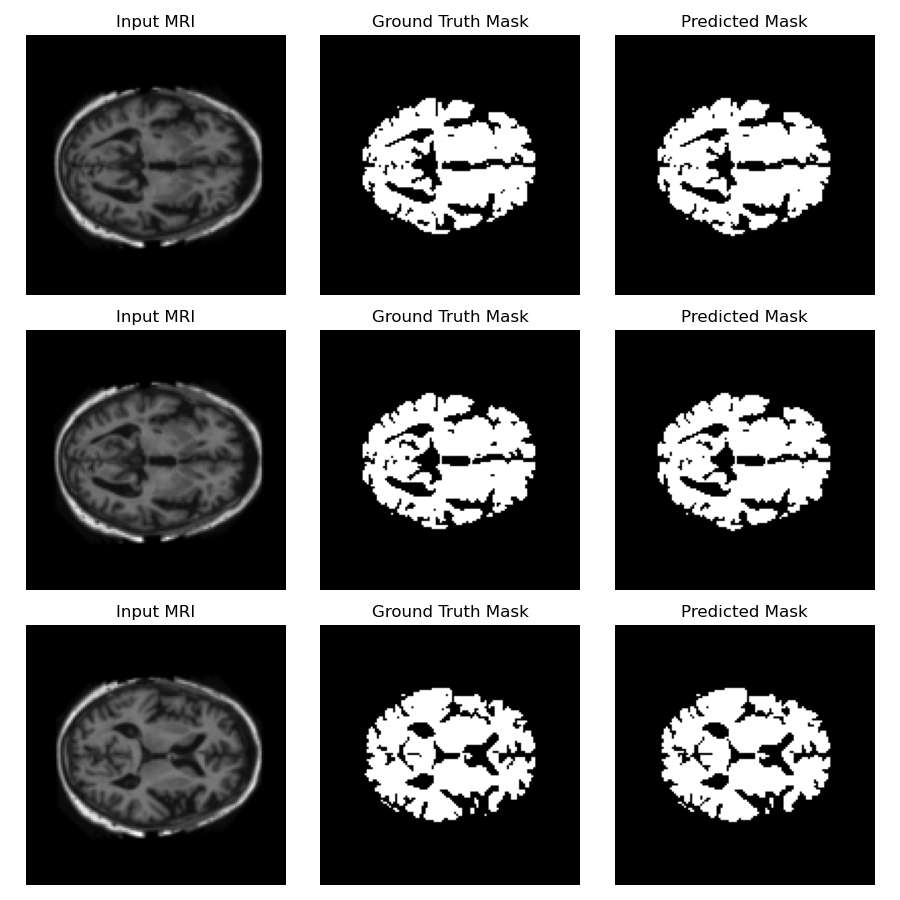
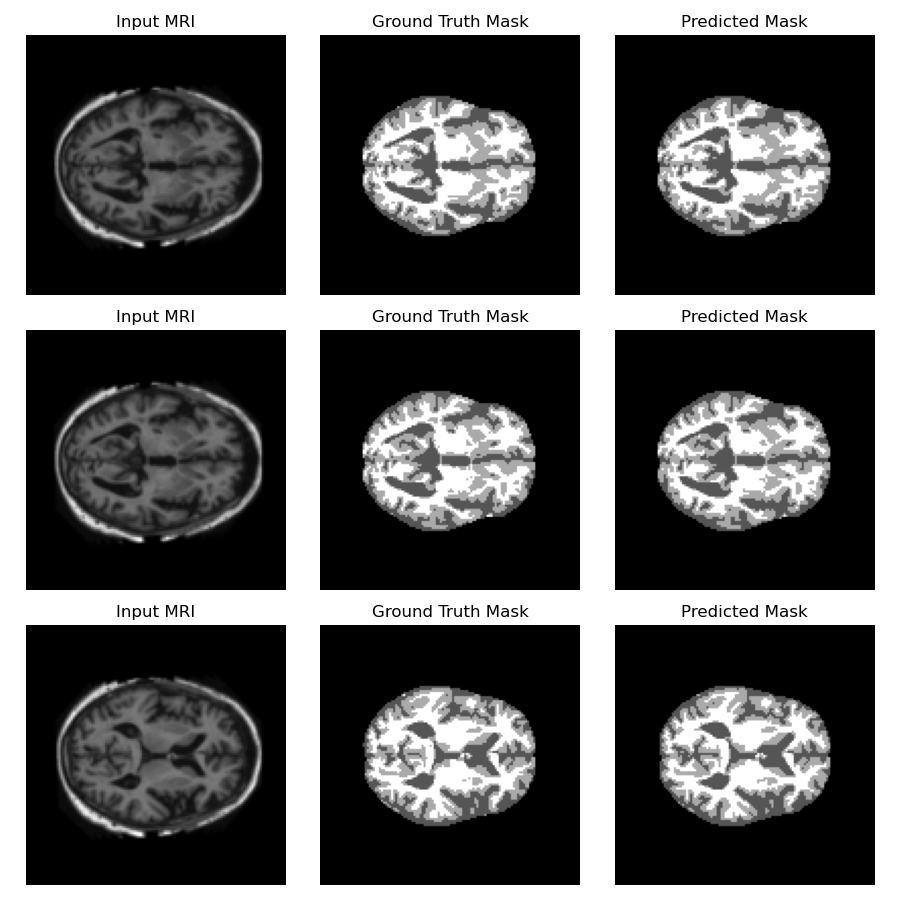
unet updated again for 4 classes and proper mapping of the images to the 4 classes

diff --git a/unet_train.py b/unet_train.py
@@ -1,6 +1,6 @@
 import os
 import numpy as np
-from glob import glob
+from glob import glob, os
 from PIL import Image
 
 import torch
@@ -11,6 +11,7 @@ from torchvision import transforms
 import torch.nn.functional as F
 
 import matplotlib.pyplot as plt
+
 
 # ------------------
 # CONFIG
@@ -53,9 +54,9 @@ def visualize_predictions(model, dataset, device=DEVICE, num_samples=3):
 # ------------------
 class OASISSegDataset(Dataset):
     """
-    Simple dataset for OASIS segmentation.
-    Assumes image and mask folders contain matching PNGs
-    with the same sorted order.
+    Dataset for OASIS segmentation.
+    Loads MRI slices and corresponding masks, resizes them,
+    and remaps mask pixel values {0,85,170,255} → {0,1,2,3}.
     """
     def __init__(self, img_dir, mask_dir, img_size=128):
         self.img_paths = sorted(glob(os.path.join(img_dir, "*.png")))
@@ -70,27 +71,37 @@ class OASISSegDataset(Dataset):
         if len(self.img_paths) != len(self.mask_paths):
             print(f"[WARN] Unequal counts: {len(self.img_paths)} imgs vs {len(self.mask_paths)} masks")
 
+        # Image transform (grayscale, resize, tensor)
         self.img_transform = transforms.Compose([
             transforms.Grayscale(num_output_channels=1),
             transforms.Resize((img_size, img_size)),
             transforms.ToTensor(),
         ])
-        self.mask_resize = transforms.Resize((img_size, img_size), interpolation=transforms.InterpolationMode.NEAREST)
+
+        # Mask transform (resize only, keep as integer labels)
+        self.mask_resize = transforms.Resize(
+            (img_size, img_size),
+            interpolation=transforms.InterpolationMode.NEAREST
+        )
 
     def __len__(self):
         return len(self.img_paths)
 
     def __getitem__(self, idx):
+        # Load image and mask
         img = Image.open(self.img_paths[idx]).convert("L")
         mask = Image.open(self.mask_paths[idx]).convert("L")
 
+        # Apply transforms
         img = self.img_transform(img)
         mask = self.mask_resize(mask)
-        mask = torch.from_numpy(np.array(mask, dtype=np.int64))
 
-        # Map {0,255} → {0,1} for binary masks
-        if mask.max() == 255:
-            mask = (mask > 127).long()
+        # Convert to numpy for label remapping
+        mask = np.array(mask, dtype=np.int64)
+
+        # Remap {0,85,170,255} → {0,1,2,3}
+        mask = mask // 85
+        mask = torch.from_numpy(mask)
 
         return img, mask
 
@@ -177,6 +188,11 @@ def dice_coefficient(logits, targets, eps=1e-6):
 # SANITY TEST + TRAINING + TEST EVAL + VISUALISATION
 # ------------------
 if __name__ == "__main__":
+    
+    # mask_files = glob.glob("./OASIS/keras_png_slices_seg_train/*.png")
+    # sample_mask = np.array(Image.open(mask_files[0]))
+    # print("Unique values in sample mask:", np.unique(sample_mask))
+    
     # ---- TRAIN DATA ----
     train_imgs = os.path.join(DATA_DIR, "keras_png_slices_train")
     train_msks = os.path.join(DATA_DIR, "keras_png_slices_seg_train")
@@ -187,7 +203,7 @@ if __name__ == "__main__":
     train_loader = DataLoader(ds, batch_size=8, shuffle=True)
 
     # ---- MODEL SETUP ----
-    model = UNet(in_channels=1, num_classes=2).to(DEVICE)
+    model = UNet(in_channels=1, num_classes=4).to(DEVICE)
     ce_loss_fn = nn.CrossEntropyLoss()
     optimizer = torch.optim.Adam(model.parameters(), lr=1e-3)
 
@@ -199,7 +215,7 @@ if __name__ == "__main__":
     print("Initial loss:", ce_loss_fn(logits, masks).item())
 
     # ---- TRAINING LOOP ----
-    EPOCHS = 30   # adjust to 20–30 later if you want better results
+    EPOCHS = 2   # adjust to 20–30 later if you want better results
     for epoch in range(1, EPOCHS+1):
         model.train()
         total_loss = 0.0
